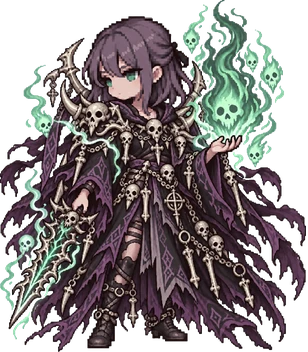
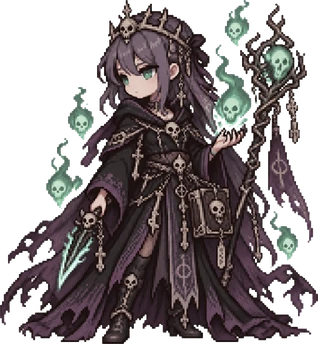
人業の絵: 死霊術師のランク5を新しい原画に差し替え
ユーザー提供の死霊術師ランク5の新しい原画 (骸骨の冠・杖・魔導書) に差し替え。
加工は他と同じく、にじみ取り・背景抜き・トリミング・縮小のみ (1ドット=14px)。
顔アイコンの基準 head は 頭頂 (冠の下の髪の上端)・あご先を測り直した。
右端の人魂は全身像の枠 (顔の中心から右45升) で切って、切り口をぼかす。
Service Worker のキャッシュを dos-v389 に更新。

Claude-Session: https://claude.ai/code/session_01FKexJ8AwoJPTjzJvsVtc6N

diff --git a/src/jobphotos.js b/src/jobphotos.js
@@ -24,7 +24,7 @@ export const JOB_PHOTOS = {
     2: { src: "art/jobs/necromancer_2.webp", w: 48, h: 85, face: [22, 11], head: [21.75, 0.0, 21.21] },
     3: { src: "art/jobs/necromancer_3.webp", w: 52, h: 83, face: [22, 10], head: [21.61, 0.0, 20.36] },
     4: { src: "art/jobs/necromancer_4.webp", w: 65, h: 83, face: [24, 10], head: [23.89, 0.0, 20.21] },
-    5: { src: "art/jobs/necromancer_5.webp", w: 77, h: 88, face: [31, 14], head: [31.0, 4.07, 24.79] },
+    5: { src: "art/jobs/necromancer_5.webp", w: 80, h: 86, face: [35, 14], head: [34.71, 3.86, 24.57] },
   },
   warden: {
     1: { src: "art/jobs/warden_1.webp", w: 61, h: 85, face: [26, 17], head: [26.11, 6.86, 27.0] },

diff --git a/sw.js b/sw.js
@@ -4,7 +4,7 @@
 // キャッシュから返す。これにより「新しい game.js + 古い souls.js」のような
 // モジュール混在 (export 不一致で白画面) が構造的に起きない。
 // 新デプロイは CACHE 名の変更で検出され、ページ側が自動リロードする。
-const CACHE = "dos-v388";
+const CACHE = "dos-v389";
 const ASSETS = [
   "./",
   "./index.html",
